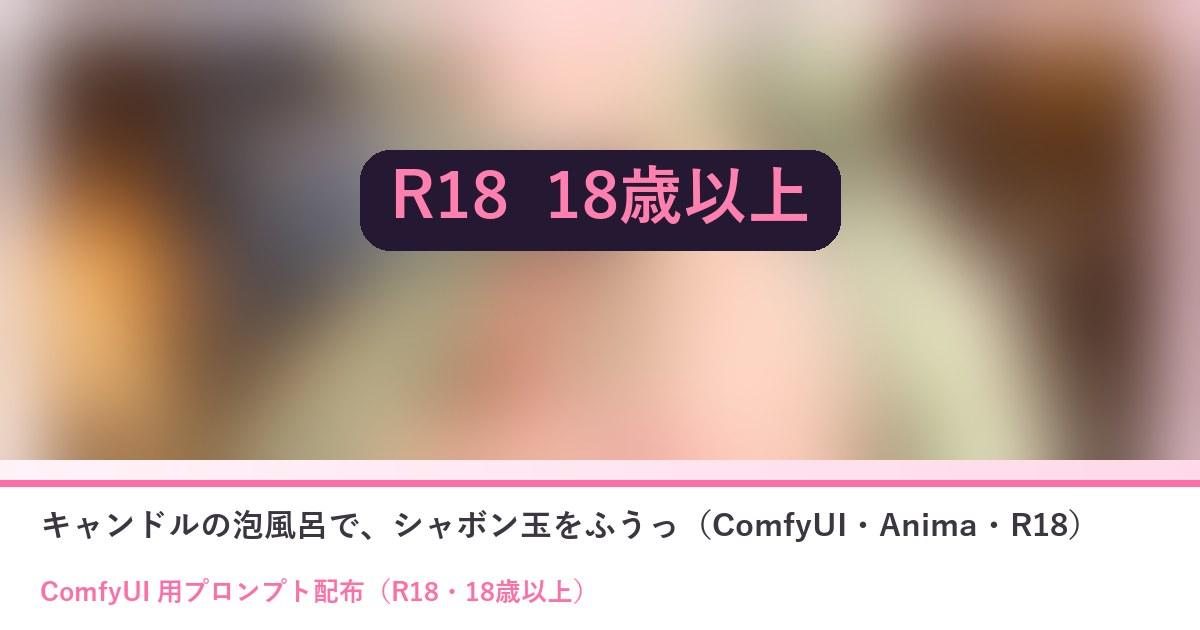
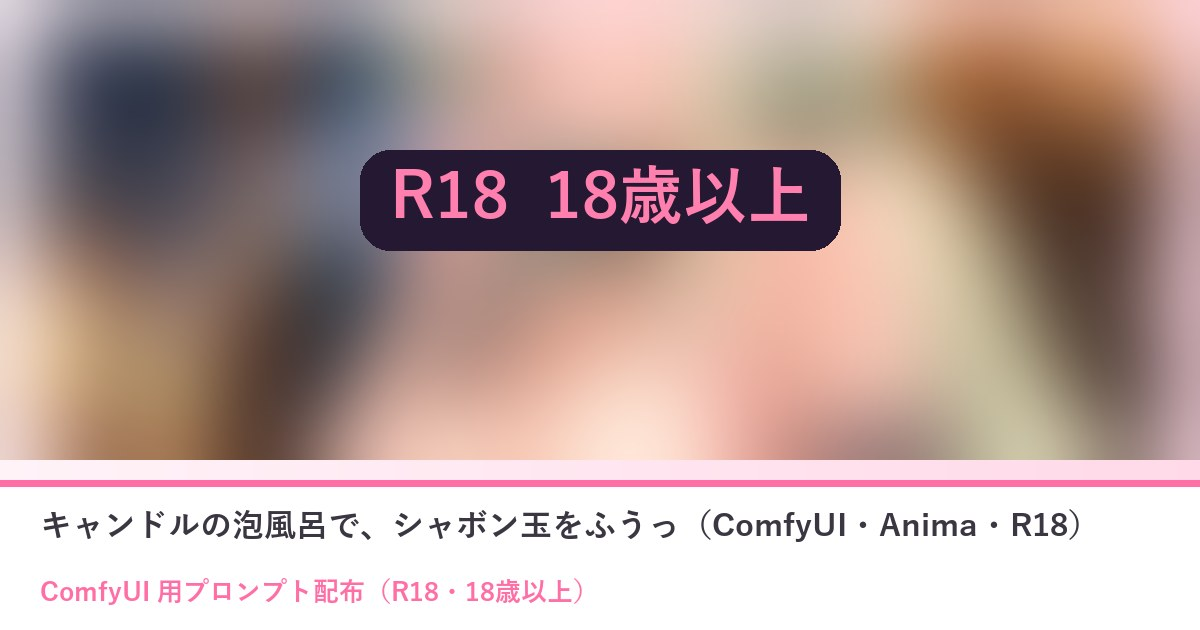
配布 10/15 泡風呂（R18）：手の位置を直したプロンプトに（27216c27）

diff --git a/prompts/2026-10-15-comfy-r18-ja8t3xiy.html b/prompts/2026-10-15-comfy-r18-ja8t3xiy.html
@@ -76,10 +76,10 @@
 <div id="psr18out"></div>
 <template id="psr18"><section class="sec"><div class="sec-head"><h2>キャンドルの泡風呂で、シャボン玉をふうっ（ComfyUI・Anima・R18）</h2><p>ひみつの眠り姫のプロンプト配布</p></div>
 <div class="ps"><p><span class="ps-badge">ComfyUI 用</span><span class="ps-badge">R18</span><span class="ps-badge">2026-10-15</span></p><p class="ps-lead">キャンドルの灯る夜のバスルーム。泡風呂のバスタブのふちに裸で腰かけて、脚を組み、シャボン玉をふうっと吹きながらウインクするシーンのプロンプトです（18歳以上の人だけ）。湯気、ぬれた肌のつや、ふちからとろりと垂れる泡としずく。LoRA が無くても、A をそのまま貼るだけで綺麗な女の子で出ます。自分のキャラの LoRA を持っている人は B をどうぞ。</p><nav class="ps-toc" aria-label="目次"><p>📑 目次</p><ol><li><a href="#sec1">3人のひそひそ話（R18・泡風呂）</a></li><li><a href="#sec2">使い方（3ステップ）</a></li><li><a href="#sec3">プロンプト</a></li><li><a href="#sec4">必要なもの（ComfyUI）</a></li><li><a href="#sec5">メモ</a></li><li><a href="#sec6">配布ルール</a></li></ol></nav><div class="ps-r18"><b>🔞 18歳未満の方は閲覧・使用できません。</b><br>非合意の表現・幼く見える人物の性的な表現には使わないでください。このページには作例の絵を置いていません（文字のプロンプトだけです）。</div><h2 id="sec1">3人のひそひそ話（R18・泡風呂）</h2><div class="ps-chat"><img src="img/2026-10-15-comfy-r18-ja8t3xiy/talk_sefi_smug.webp" alt="セフィリア" loading="lazy"><div><div class="who">セフィリア</div><div class="bub">ティルナ、その泡……ちょうど大事なところだけ、ぎりぎりで隠れていますね。百点です</div></div></div><div class="ps-chat r"><img src="img/2026-10-15-comfy-r18-ja8t3xiy/talk_tiru_laugh.webp" alt="ティルナ" loading="lazy"><div><div class="who">ティルナ</div><div class="bub">えへへ、ねらってないよ！ 脚を組んで座ったら、泡がとろーって垂れてきただけ</div></div></div><div class="ps-chat r"><img src="img/2026-10-15-comfy-r18-ja8t3xiy/talk_lilia_shy.webp" alt="リリア" loading="lazy"><div><div class="who">リリア</div><div class="bub">ティルナちゃん、ふちに座っているから、おしりの下まで泡でぬるぬるですよ</div></div></div><div class="ps-chat r"><img src="img/2026-10-15-comfy-r18-ja8t3xiy/talk_tiru_devious.webp" alt="ティルナ" loading="lazy"><div><div class="who">ティルナ</div><div class="bub">そうなの、つるってすべりそう。だからシャボン玉ふいて、ごまかしてるの。ふうーっ</div></div></div><div class="ps-chat"><img src="img/2026-10-15-comfy-r18-ja8t3xiy/talk_sefi_smug.webp" alt="セフィリア" loading="lazy"><div><div class="who">セフィリア</div><div class="bub">ごまかすには、胸が丸見えです。キャンドルの灯りで、先っぽまでつやつやに光っていますよ</div></div></div><div class="ps-chat r"><img src="img/2026-10-15-comfy-r18-ja8t3xiy/talk_lilia_shy.webp" alt="リリア" loading="lazy"><div><div class="who">リリア</div><div class="bub">セフィリア様、品評がだんだん細かくなっています……でも、わたしも見てしまいます</div></div></div><div class="ps-chat r"><img src="img/2026-10-15-comfy-r18-ja8t3xiy/talk_tiru_surprised.webp" alt="ティルナ" loading="lazy"><div><div class="who">ティルナ</div><div class="bub">じゃあ、ふたりの番！ 同じ文で焼いたら、どうなったの？</div></div></div><div class="ps-chat r"><img src="img/2026-10-15-comfy-r18-ja8t3xiy/talk_lilia_normal.webp" alt="リリア" loading="lazy"><div><div class="who">リリア</div><div class="bub">わたしの試し焼きは、髪の色を書き換えただけで、泡風呂もキャンドルも同じように出ました</div></div></div><div class="ps-chat"><img src="img/2026-10-15-comfy-r18-ja8t3xiy/talk_sefi_wink.webp" alt="セフィリア" loading="lazy"><div><div class="who">セフィリア</div><div class="bub">LoRA のない方は A をそのまま、ある方は B のトリガー語を一か所替えるだけ。湯気のしっとりした感じまで出ます</div></div></div><div class="ps-chat r"><img src="img/2026-10-15-comfy-r18-ja8t3xiy/talk_tiru_laugh.webp" alt="ティルナ" loading="lazy"><div><div class="who">ティルナ</div><div class="bub">シャボン玉がおっきすぎると、風船ガムみたいになるから気をつけてね！ わたしもなった！</div></div></div><div class="ps-chat r"><img src="img/2026-10-15-comfy-r18-ja8t3xiy/talk_lilia_thinking.webp" alt="リリア" loading="lazy"><div><div class="who">リリア</div><div class="bub">それと、脚を組んでいても、太ももの下に影が出ることがあります。載せる前に、ちゃんと確かめてくださいね</div></div></div><div class="ps-chat"><img src="img/2026-10-15-comfy-r18-ja8t3xiy/talk_sefi_devious.webp" alt="セフィリア" loading="lazy"><div><div class="who">セフィリア</div><div class="bub">わたくしは、もう少し脚をほどいて座ってみたいです。泡がどこまで隠してくれるのか、試したくなりました</div></div></div><div class="ps-chat r"><img src="img/2026-10-15-comfy-r18-ja8t3xiy/talk_tiru_devious.webp" alt="ティルナ" loading="lazy"><div><div class="who">ティルナ</div><div class="bub">セフィー、だいたーん！ じゃあ、わたしは泡を手ですくって、胸に塗っちゃおうかな</div></div></div><div class="ps-chat r"><img src="img/2026-10-15-comfy-r18-ja8t3xiy/talk_lilia_shy.webp" alt="リリア" loading="lazy"><div><div class="who">リリア</div><div class="bub">ふたりとも……のぼせてしまいます。わたしまで、お湯に入る前から体が熱くなってきました</div></div></div><div class="ps-chat"><img src="img/2026-10-15-comfy-r18-ja8t3xiy/talk_sefi_happy.webp" alt="セフィリア" loading="lazy"><div><div class="who">セフィリア</div><div class="bub">では、三人でいっしょに入りましょう。キャンドルの灯りなら、どこまで見えても恥ずかしくありません</div></div></div><div class="ps-chat r"><img src="img/2026-10-15-comfy-r18-ja8t3xiy/talk_tiru_laugh.webp" alt="ティルナ" loading="lazy"><div><div class="who">ティルナ</div><div class="bub">やったー！ ぎゅうぎゅうの泡風呂、ぜったい楽しいよ。先に入った人が、背中を流す係ね！</div></div></div><h2 id="sec2">使い方（3ステップ）</h2><ol class="ps-steps"><li>ComfyUI で Anima のモデルを読み、基本の画像生成（テキストから画像）の画面にする</li><li>下の A（LoRA なし）か B（LoRA あり）のポジティブと、ネガティブをワンタップでコピーして貼る</li><li>「推奨値」の大きさ・steps・CFG にして生成する（できれば 1.5 倍の hires fix も）</li></ol><h2 id="sec3">プロンプト</h2><div class="ps-note" style="margin-bottom:12px"><b>変えるのは1行目の色の付いたところだけ</b>（先頭の <code>1girl, solo</code> などはそのまま）<ul><li>使うプロンプトは2通り＝<b>A. LoRA を持っていない人</b>／<b>B. 自分のキャラの LoRA を持っている人</b>。どちらも丸ごとコピーして貼るだけ</li><li>A は<b>そのまま</b>でも綺麗な女の子で出ます。自分のキャラにするなら1行目の髪の色・髪型・目の色を書き換えるだけ</li><li>B は1行目の <code>your_lora_trigger</code> を自分の LoRA のトリガー語に置きかえるだけ（LoRA の強さは下の表）</li><li>2行目から下（シーン）と、ネガティブプロンプトは変えずにそのまま</li><li>🚫 版権キャラの名前・版権キャラの LoRA を入れて使うのは固く禁止です（下の「配布ルール」）</li></ul></div><h3 style="margin:14px 0 8px">A. LoRA を持っていない人（そのままでもOK）</h3><div class="ps-box"><button class="ps-copy" type="button" data-target="ps-prompt">📋 ワンタップでコピー</button><p style="margin:0 0 8px;font-size:.82rem;color:var(--ps-a)">ポジティブプロンプト</p><pre>1girl, solo, <mark class="ps-in" data-key="キャラの行">long hair, light green hair, pink hair tips, green eyes</mark>
-masterpiece, best quality, score_7, explicit, cowboy shot, from side, looking at viewer, seductive smile, one eye closed, blush, parted lips, blowing, sitting, crossed legs, hands on own thighs, bathtub, bubble bath, bubble, foam, bathroom, indoors, night, candlelight, candle, steam, completely nude, nude, convenient censoring, breasts, nipples, sweat, wet skin, shiny skin, wet, pussy juice, excessive pussy juice, hair flower, flower earrings, arm ribbon, anklet, warm colors, dim lighting, bloom, light particles, sparkle, depth of field, water drop, floating hair</pre><textarea class="ps-copyarea" id="ps-prompt" readonly aria-hidden="true" tabindex="-1">1girl, solo, long hair, light green hair, pink hair tips, green eyes
-masterpiece, best quality, score_7, explicit, cowboy shot, from side, looking at viewer, seductive smile, one eye closed, blush, parted lips, blowing, sitting, crossed legs, hands on own thighs, bathtub, bubble bath, bubble, foam, bathroom, indoors, night, candlelight, candle, steam, completely nude, nude, convenient censoring, breasts, nipples, sweat, wet skin, shiny skin, wet, pussy juice, excessive pussy juice, hair flower, flower earrings, arm ribbon, anklet, warm colors, dim lighting, bloom, light particles, sparkle, depth of field, water drop, floating hair</textarea></div><h3 style="margin:18px 0 8px">B. 自分のキャラの LoRA を持っている人</h3><div class="ps-box"><button class="ps-copy" type="button" data-target="ps-prompt-lora">📋 ワンタップでコピー</button><p style="margin:0 0 8px;font-size:.82rem;color:var(--ps-a)">ポジティブプロンプト（LoRA 用）</p><pre>masterpiece, best quality, score_7, year 2025, highres, absurdres, <mark class="ps-in" data-key="キャラの行">your_lora_trigger</mark>, 1girl, solo,
-cowboy shot, from side, looking at viewer, seductive smile, one eye closed, blush, parted lips, blowing, sitting, crossed legs, hands on own thighs, bathtub, bubble bath, bubble, foam, bathroom, indoors, night, candlelight, candle, steam, completely nude, nude, convenient censoring, breasts, nipples, sweat, wet skin, shiny skin, wet, pussy juice, excessive pussy juice, hair flower, flower earrings, arm ribbon, anklet, warm colors, dim lighting, bloom, light particles, sparkle, depth of field, water drop, floating hair</pre><textarea class="ps-copyarea" id="ps-prompt-lora" readonly aria-hidden="true" tabindex="-1">masterpiece, best quality, score_7, year 2025, highres, absurdres, your_lora_trigger, 1girl, solo,
-cowboy shot, from side, looking at viewer, seductive smile, one eye closed, blush, parted lips, blowing, sitting, crossed legs, hands on own thighs, bathtub, bubble bath, bubble, foam, bathroom, indoors, night, candlelight, candle, steam, completely nude, nude, convenient censoring, breasts, nipples, sweat, wet skin, shiny skin, wet, pussy juice, excessive pussy juice, hair flower, flower earrings, arm ribbon, anklet, warm colors, dim lighting, bloom, light particles, sparkle, depth of field, water drop, floating hair</textarea></div><table class="ps-vars" style="margin-top:10px"><tr><th>LoRA のつなぎ方</th><td colspan="2">Load Diffusion Model（Anima）のうしろに LoraLoaderModelOnly を1つ足す（CLIP にはつながない）</td></tr><tr><th>LoRA の強さ（strength_model）</th><td colspan="2">0.8〜0.9（作例は 0.85）</td></tr><tr><th>1行目</th><td colspan="2">your_lora_trigger を自分の LoRA のトリガー語に置きかえる（髪や目の色は LoRA が覚えているので書かなくてOK）</td></tr></table><div style="height:12px"></div><div class="ps-box"><button class="ps-copy" type="button" data-target="ps-negative-lora">📋 ワンタップでコピー</button><p style="margin:0 0 8px;font-size:.82rem;color:var(--ps-a)">ネガティブプロンプト（B 用）</p><pre>lowres, bad quality, worst quality, score_1, score_2, score_3, poorly drawn, flat color, sketch, jpeg artifacts, mutated, ugly, disfigured, long body, bad anatomy, bad hands, missing fingers, extra fingers, simple background, transparent background, blurry, furry, child, loli, chibi, baby face, signature, watermark, artist name, username, web address, patreon username, logo, detailed pupils, sparkling eyes, twinkling eyes, glowing pupils, glowing eyes, star-shaped pupils, colored highlight in pupil, pointy ears, elf ears, japanese text, chinese text, korean text, kanji, hiragana, katakana, calligraphy</pre><textarea class="ps-copyarea" id="ps-negative-lora" readonly aria-hidden="true" tabindex="-1">lowres, bad quality, worst quality, score_1, score_2, score_3, poorly drawn, flat color, sketch, jpeg artifacts, mutated, ugly, disfigured, long body, bad anatomy, bad hands, missing fingers, extra fingers, simple background, transparent background, blurry, furry, child, loli, chibi, baby face, signature, watermark, artist name, username, web address, patreon username, logo, detailed pupils, sparkling eyes, twinkling eyes, glowing pupils, glowing eyes, star-shaped pupils, colored highlight in pupil, pointy ears, elf ears, japanese text, chinese text, korean text, kanji, hiragana, katakana, calligraphy</textarea></div><div class="ps-note" style="margin-top:10px"><b>作例の絵（ポストの絵）は、この B のポジティブとネガティブで作りました</b>（<code>your_lora_trigger</code> のところに、その子の LoRA のトリガー語と見た目の語を入れただけ・語の順番もこのまま）。そのあと手だけを描き直す仕上げと 4K への拡大をしています。<br>ネガティブの「pointy ears、elf ears」は作例の子のために足した語です。自分のキャラに合わなければ消してOK。</div><div style="height:12px"></div><div class="ps-box"><button class="ps-copy" type="button" data-target="ps-negative">📋 ワンタップでコピー</button><p style="margin:0 0 8px;font-size:.82rem;color:var(--ps-a)">ネガティブプロンプト（A 用）</p><pre>worst quality, low quality, lowres, bad anatomy, bad hands, extra fingers, missing fingers, fused fingers, blurry, jpeg artifacts, text, watermark, signature, logo, extra person, multiple girls, cropped, out of frame, japanese text, chinese text, korean text, kanji, hiragana, katakana, calligraphy</pre><textarea class="ps-copyarea" id="ps-negative" readonly aria-hidden="true" tabindex="-1">worst quality, low quality, lowres, bad anatomy, bad hands, extra fingers, missing fingers, fused fingers, blurry, jpeg artifacts, text, watermark, signature, logo, extra person, multiple girls, cropped, out of frame, japanese text, chinese text, korean text, kanji, hiragana, katakana, calligraphy</textarea></div><h2 id="sec4">必要なもの（ComfyUI）</h2><div class="ps-note">🧩 <b>カスタムノードは使っていません</b>。LoRA が無くても大丈夫（A のプロンプト）。ComfyUI の基本の画像生成（テキストから画像）に、ポジティブ・ネガティブを貼って、下の推奨値にするだけです。LoRA を使う人は「LoraLoaderModelOnly」を1つ足すだけ（B のプロンプト）。</div><table class="ps-vars" style="margin-top:12px"><tr><th>モデル</th><th>ファイル</th><th>置き場</th></tr><tr><td>Anima 系のモデル（本体）</td><td>お好きな Anima 系のモデル</td><td><code>models/diffusion_models</code></td></tr><tr><td>テキストエンコーダ</td><td>Anima と一緒に配られているもの</td><td><code>models/text_encoders</code></td></tr><tr><td>VAE</td><td>Anima と一緒に配られているもの</td><td><code>models/vae</code></td></tr></table><h2>推奨値</h2><table class="ps-vars"><tr><th>大きさ</th><td colspan="2">864×1536（縦長・太ももから上・横から）</td></tr><tr><th>steps</th><td colspan="2">30</td></tr><tr><th>CFG</th><td colspan="2">4.5</td></tr><tr><th>sampler</th><td colspan="2">er_sde</td></tr><tr><th>scheduler</th><td colspan="2">beta</td></tr><tr><th>hires fix（任意）</th><td colspan="2">1.5 倍に拡大して denoise 0.4・同じ steps と CFG（試し焼きはこれ）</td></tr><tr><th>LoRA</th><td colspan="2">無くてOK（A のプロンプト）。自分のキャラの LoRA があれば B のプロンプトで</td></tr></table><h2 id="sec5">メモ</h2><ul class="ps-rules"><li>A（LoRA なし）は1行目の髪の色・長さ・髪型・目の色を書き換えるだけで、自分のキャラに近づけられます。そのままでも綺麗な女の子で出ます（試し焼きで確かめました）。</li><li>B（LoRA あり）は1行目の your_lora_trigger を自分の LoRA のトリガー語にするだけ。髪や目の色は LoRA が覚えているので書かなくて大丈夫です。</li><li>シャボン玉は、焼くたびに大きさが変わります。口もとの玉が大きいと風船ガムのように見えることがあるので、気になるときは seed を変えてください。</li><li>脚を組んでいるので性器はほとんど隠れますが、太ももの下に影が写ることがあります。SNS に載せるときは、原寸で見て必要ならモザイクをかけてください（作例も念のためかけました）。</li><li>ほかのモデル（SDXL・Illustrious など）でも、2行目の先頭の品質の語をそのモデルのものに替えれば使えます（作例は Anima です）。</li></ul><h2 id="sec6">配布ルール</h2><ul class="ps-rules"><li>⭕ プロンプトの改変は自由です。</li><li>⭕ 生成した画像は SNS に投稿して大丈夫です。</li><li>❌ プロンプト文そのものの転載・再配布・販売はしないでください。</li><li>❌ 自作のプロンプトだと名乗ることはやめてください。</li><li>❌ このページの作例画像の無断転載はしないでください。</li><li class="ps-rights">🚫 <b>アニメ・漫画・ゲームなどの版権キャラクター（著作権・商標のあるキャラ）、他の人のキャラクターやイラスト、実在の人物の写真を添付画像にして使うことは固く禁止します。</b>版権キャラの名前や、版権キャラの LoRA を入れて使うことも禁止です。</li><li>✅ 添付してよいのは、<b>自分で作ったキャラクター・自分が権利を持つ画像</b>（または権利者から使ってよいと言われた画像）だけです。</li><li>⚠ 生成した画像の使い方（投稿・公開など）は、使った人の責任でお願いします。権利の問題が起きても、配布者は責任を負えません。</li><li>💌 使ったら <b>#眠り姫R18プロンプト</b> を付けて見せてくれたら、とても嬉しいです（任意です）。</li></ul><p class="ps-bn-ask" style="margin:22px 0 0;font-size:.92rem">📚 これまでの配布プロンプト（バックナンバー）が見たい方は、直接ひみつの眠り姫までお気軽にお問い合わせください。</p></div>
+masterpiece, best quality, score_7, explicit, cowboy shot, from side, looking at viewer, seductive smile, one eye closed, blush, parted lips, blowing, sitting, crossed legs, arm support, bathtub, bubble bath, bubble, foam, bathroom, indoors, night, candlelight, candle, steam, completely nude, nude, convenient censoring, breasts, nipples, sweat, wet skin, shiny skin, wet, pussy juice, excessive pussy juice, hair flower, flower earrings, arm ribbon, anklet, warm colors, dim lighting, bloom, light particles, sparkle, depth of field, water drop, floating hair</pre><textarea class="ps-copyarea" id="ps-prompt" readonly aria-hidden="true" tabindex="-1">1girl, solo, long hair, light green hair, pink hair tips, green eyes
+masterpiece, best quality, score_7, explicit, cowboy shot, from side, looking at viewer, seductive smile, one eye closed, blush, parted lips, blowing, sitting, crossed legs, arm support, bathtub, bubble bath, bubble, foam, bathroom, indoors, night, candlelight, candle, steam, completely nude, nude, convenient censoring, breasts, nipples, sweat, wet skin, shiny skin, wet, pussy juice, excessive pussy juice, hair flower, flower earrings, arm ribbon, anklet, warm colors, dim lighting, bloom, light particles, sparkle, depth of field, water drop, floating hair</textarea></div><h3 style="margin:18px 0 8px">B. 自分のキャラの LoRA を持っている人</h3><div class="ps-box"><button class="ps-copy" type="button" data-target="ps-prompt-lora">📋 ワンタップでコピー</button><p style="margin:0 0 8px;font-size:.82rem;color:var(--ps-a)">ポジティブプロンプト（LoRA 用）</p><pre>masterpiece, best quality, score_7, year 2025, highres, absurdres, <mark class="ps-in" data-key="キャラの行">your_lora_trigger</mark>, 1girl, solo,
+cowboy shot, from side, looking at viewer, seductive smile, one eye closed, blush, parted lips, blowing, sitting, crossed legs, arm support, bathtub, bubble bath, bubble, foam, bathroom, indoors, night, candlelight, candle, steam, completely nude, nude, convenient censoring, breasts, nipples, sweat, wet skin, shiny skin, wet, pussy juice, excessive pussy juice, hair flower, flower earrings, arm ribbon, anklet, warm colors, dim lighting, bloom, light particles, sparkle, depth of field, water drop, floating hair</pre><textarea class="ps-copyarea" id="ps-prompt-lora" readonly aria-hidden="true" tabindex="-1">masterpiece, best quality, score_7, year 2025, highres, absurdres, your_lora_trigger, 1girl, solo,
+cowboy shot, from side, looking at viewer, seductive smile, one eye closed, blush, parted lips, blowing, sitting, crossed legs, arm support, bathtub, bubble bath, bubble, foam, bathroom, indoors, night, candlelight, candle, steam, completely nude, nude, convenient censoring, breasts, nipples, sweat, wet skin, shiny skin, wet, pussy juice, excessive pussy juice, hair flower, flower earrings, arm ribbon, anklet, warm colors, dim lighting, bloom, light particles, sparkle, depth of field, water drop, floating hair</textarea></div><table class="ps-vars" style="margin-top:10px"><tr><th>LoRA のつなぎ方</th><td colspan="2">Load Diffusion Model（Anima）のうしろに LoraLoaderModelOnly を1つ足す（CLIP にはつながない）</td></tr><tr><th>LoRA の強さ（strength_model）</th><td colspan="2">0.8〜0.9（作例は 0.85）</td></tr><tr><th>1行目</th><td colspan="2">your_lora_trigger を自分の LoRA のトリガー語に置きかえる（髪や目の色は LoRA が覚えているので書かなくてOK）</td></tr></table><div style="height:12px"></div><div class="ps-box"><button class="ps-copy" type="button" data-target="ps-negative-lora">📋 ワンタップでコピー</button><p style="margin:0 0 8px;font-size:.82rem;color:var(--ps-a)">ネガティブプロンプト（B 用）</p><pre>lowres, bad quality, worst quality, score_1, score_2, score_3, poorly drawn, flat color, sketch, jpeg artifacts, mutated, ugly, disfigured, long body, bad anatomy, bad hands, missing fingers, extra fingers, simple background, transparent background, blurry, furry, child, loli, chibi, baby face, signature, watermark, artist name, username, web address, patreon username, logo, detailed pupils, sparkling eyes, twinkling eyes, glowing pupils, glowing eyes, star-shaped pupils, colored highlight in pupil, pointy ears, elf ears, japanese text, chinese text, korean text, kanji, hiragana, katakana, calligraphy</pre><textarea class="ps-copyarea" id="ps-negative-lora" readonly aria-hidden="true" tabindex="-1">lowres, bad quality, worst quality, score_1, score_2, score_3, poorly drawn, flat color, sketch, jpeg artifacts, mutated, ugly, disfigured, long body, bad anatomy, bad hands, missing fingers, extra fingers, simple background, transparent background, blurry, furry, child, loli, chibi, baby face, signature, watermark, artist name, username, web address, patreon username, logo, detailed pupils, sparkling eyes, twinkling eyes, glowing pupils, glowing eyes, star-shaped pupils, colored highlight in pupil, pointy ears, elf ears, japanese text, chinese text, korean text, kanji, hiragana, katakana, calligraphy</textarea></div><div class="ps-note" style="margin-top:10px"><b>作例の絵（ポストの絵）は、この B のポジティブとネガティブで作りました</b>（<code>your_lora_trigger</code> のところに、その子の LoRA のトリガー語と見た目の語を入れただけ・語の順番もこのまま）。そのあと手だけを描き直す仕上げと 4K への拡大をしています。<br>ネガティブの「pointy ears、elf ears」は作例の子のために足した語です。自分のキャラに合わなければ消してOK。</div><div style="height:12px"></div><div class="ps-box"><button class="ps-copy" type="button" data-target="ps-negative">📋 ワンタップでコピー</button><p style="margin:0 0 8px;font-size:.82rem;color:var(--ps-a)">ネガティブプロンプト（A 用）</p><pre>worst quality, low quality, lowres, bad anatomy, bad hands, extra fingers, missing fingers, fused fingers, blurry, jpeg artifacts, text, watermark, signature, logo, extra person, multiple girls, cropped, out of frame, japanese text, chinese text, korean text, kanji, hiragana, katakana, calligraphy</pre><textarea class="ps-copyarea" id="ps-negative" readonly aria-hidden="true" tabindex="-1">worst quality, low quality, lowres, bad anatomy, bad hands, extra fingers, missing fingers, fused fingers, blurry, jpeg artifacts, text, watermark, signature, logo, extra person, multiple girls, cropped, out of frame, japanese text, chinese text, korean text, kanji, hiragana, katakana, calligraphy</textarea></div><h2 id="sec4">必要なもの（ComfyUI）</h2><div class="ps-note">🧩 <b>カスタムノードは使っていません</b>。LoRA が無くても大丈夫（A のプロンプト）。ComfyUI の基本の画像生成（テキストから画像）に、ポジティブ・ネガティブを貼って、下の推奨値にするだけです。LoRA を使う人は「LoraLoaderModelOnly」を1つ足すだけ（B のプロンプト）。</div><table class="ps-vars" style="margin-top:12px"><tr><th>モデル</th><th>ファイル</th><th>置き場</th></tr><tr><td>Anima 系のモデル（本体）</td><td>お好きな Anima 系のモデル</td><td><code>models/diffusion_models</code></td></tr><tr><td>テキストエンコーダ</td><td>Anima と一緒に配られているもの</td><td><code>models/text_encoders</code></td></tr><tr><td>VAE</td><td>Anima と一緒に配られているもの</td><td><code>models/vae</code></td></tr></table><h2>推奨値</h2><table class="ps-vars"><tr><th>大きさ</th><td colspan="2">864×1536（縦長・太ももから上・横から）</td></tr><tr><th>steps</th><td colspan="2">30</td></tr><tr><th>CFG</th><td colspan="2">4.5</td></tr><tr><th>sampler</th><td colspan="2">er_sde</td></tr><tr><th>scheduler</th><td colspan="2">beta</td></tr><tr><th>hires fix（任意）</th><td colspan="2">1.5 倍に拡大して denoise 0.4・同じ steps と CFG（試し焼きはこれ）</td></tr><tr><th>LoRA</th><td colspan="2">無くてOK（A のプロンプト）。自分のキャラの LoRA があれば B のプロンプトで</td></tr></table><h2 id="sec5">メモ</h2><ul class="ps-rules"><li>A（LoRA なし）は1行目の髪の色・長さ・髪型・目の色を書き換えるだけで、自分のキャラに近づけられます。そのままでも綺麗な女の子で出ます（試し焼きで確かめました）。</li><li>B（LoRA あり）は1行目の your_lora_trigger を自分の LoRA のトリガー語にするだけ。髪や目の色は LoRA が覚えているので書かなくて大丈夫です。</li><li>シャボン玉は、焼くたびに大きさが変わります。口もとの玉が大きいと風船ガムのように見えることがあるので、気になるときは seed を変えてください。</li><li>脚を組んでいるので性器はほとんど隠れますが、太ももの下に影が写ることがあります。SNS に載せるときは、原寸で見て必要ならモザイクをかけてください（作例も念のためかけました）。</li><li>ほかのモデル（SDXL・Illustrious など）でも、2行目の先頭の品質の語をそのモデルのものに替えれば使えます（作例は Anima です）。</li></ul><h2 id="sec6">配布ルール</h2><ul class="ps-rules"><li>⭕ プロンプトの改変は自由です。</li><li>⭕ 生成した画像は SNS に投稿して大丈夫です。</li><li>❌ プロンプト文そのものの転載・再配布・販売はしないでください。</li><li>❌ 自作のプロンプトだと名乗ることはやめてください。</li><li>❌ このページの作例画像の無断転載はしないでください。</li><li class="ps-rights">🚫 <b>アニメ・漫画・ゲームなどの版権キャラクター（著作権・商標のあるキャラ）、他の人のキャラクターやイラスト、実在の人物の写真を添付画像にして使うことは固く禁止します。</b>版権キャラの名前や、版権キャラの LoRA を入れて使うことも禁止です。</li><li>✅ 添付してよいのは、<b>自分で作ったキャラクター・自分が権利を持つ画像</b>（または権利者から使ってよいと言われた画像）だけです。</li><li>⚠ 生成した画像の使い方（投稿・公開など）は、使った人の責任でお願いします。権利の問題が起きても、配布者は責任を負えません。</li><li>💌 使ったら <b>#眠り姫R18プロンプト</b> を付けて見せてくれたら、とても嬉しいです（任意です）。</li></ul><p class="ps-bn-ask" style="margin:22px 0 0;font-size:.92rem">📚 これまでの配布プロンプト（バックナンバー）が見たい方は、直接ひみつの眠り姫までお気軽にお問い合わせください。</p></div>
 <p style="text-align:center;margin:34px 0 0"><a class="gate-btn ghost" href="../index.html" style="color:var(--ink-dim);border-color:var(--line)">部屋に戻る</a></p>
 </section></template>
 <script>(function(){var g=document.getElementById('psgate'),t=document.getElementById('psr18'),o=document.getElementById('psr18out');document.getElementById('psopen').addEventListener('click',function(){o.appendChild(document.importNode(t.content,true));g.remove();if(window.psCopyBind)psCopyBind(o);if(window.goatcounter&&goatcounter.count)goatcounter.count({path:location.host+location.pathname});});})();</script>
